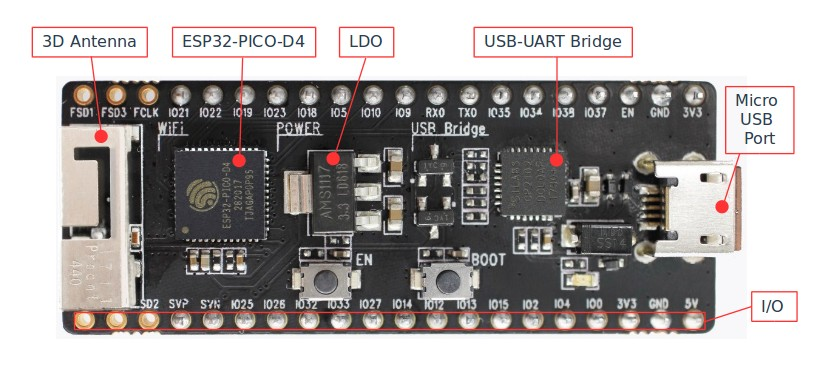
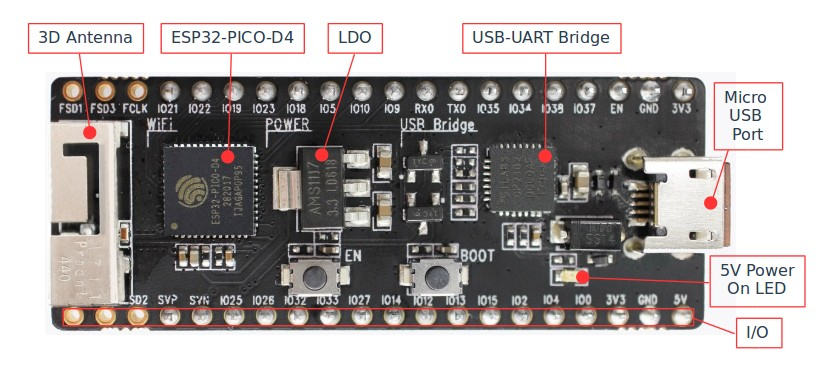
Pin descriptions, overview diagram and board dimensions carried over from ESP32-PICO-KIT_Datasheet_EN.pdf. The datasheet looks redundant and will not be used.

diff --git a/docs/get-started/get-started-pico-kit.rst b/docs/get-started/get-started-pico-kit.rst
@@ -11,15 +11,30 @@ What You Need
 * 1 × USB A / Micro USB B cable
 * 1 × PC loaded with Windows, Linux or Mac OS
 
+If you like to start using this board right now, go directly to section `Start Application Development`_.
+
 
 Overview
 --------
 
-ESP32-PICO-KIT V4 is a mini development board based on the ESP32-PICO-D4 SIP module produced by `Espressif <https://espressif.com>`_. For easy interfacing, all the IO signals and system power on ESP32-PICO-D4 are led out through two 20 x 0.1" pitch header pads on both sides of the development board. To make the ESP32-PICO-KIT V4 fit into mini breadboards, the header pads are populated with two 17 pin headers. Remaining 2 x 3 pads grouped on one side of the board besides the antenna are not populated. If required, the additional 2 x 3 pin headers may be soldered later by the user. The development board integrates a USB-UART Bridge circuit, allowing the developers to connect the board to a PC's USB port for downloads and debugging.
+ESP32-PICO-KIT V4 is a mini development board produced by `Espressif <https://espressif.com>`_. At the core of this board is the ESP32-PICO-D4, a System-in-Package (SIP) module with complete Wi-Fi and Bluetooth functionalities. Comparing to other ESP32 chips, the ESP32-PICO-D4 integrates several peripheral components in one single package, that otherwise would need to be installed separately. This includes a 40 MHz crystal oscillator, 4 MB flash, filter capacitors and RF matching links in. This greatly reduces quantity and costs of additional components, subsequent assembly and testing cost, as well as overall product complexity.
+
+The development board integrates a USB-UART Bridge circuit, allowing the developers to connect the board to a PC's USB port for downloads and debugging. 
+
+For easy interfacing, all the IO signals and system power on ESP32-PICO-D4 are led out through two rows of 20 x 0.1" pitch header pads on both sides of the development board. To make the ESP32-PICO-KIT V4 fit into mini breadboards, the header pads are populated with two rows of 17 pin headers. Remaining 2 x 3 pads grouped on each side of the board besides the antenna are not populated. The remaining 2 x 3 pin headers may be soldered later by the user. 
 
 .. note::
 
-    The 2 x 3 pads not populated with pin headers are internally connected to the flash memory embedded in the ESP32-PICO-D4 SIP module. For more details see module's datasheet in :ref:`get-started-pico-kit-v4-related-documents`.
+    The 2 x 3 pads not populated with pin headers are internally connected to the flash memory embedded in the ESP32-PICO-D4 SIP module. For more details see module's datasheet in `Related Documents`_.
+
+The board dimensions are 52 x 20.3 x 10 mm (2.1" x 0.8" x 0.4"), see section `Board Dimensions`_. An overview functional block diagram is shown below.
+
+.. figure:: ../_static/esp32-pico-kit-v4-functional-block-diagram.png
+    :align: center
+    :alt: ESP32-PICO-KIT V4 functional block diagram
+    :figclass: align-center
+
+    ESP32-PICO-KIT V4 functional block diagram
 
 
 Functional Description
@@ -29,16 +44,20 @@ The following list and figure below describe key components, interfaces and cont
 
 ESP32-PICO-D4
     Standard ESP32-PICO-D4 module soldered to the ESP32-PICO-KIT V4 board. The complete system of the ESP32 chip has been integrated into the SIP module, requiring only external antenna with LC matching network, decoupling capacitors and pull-up resistors for EN signals to function properly.
+LDO
+    5V-to-3.3V Low dropout voltage regulator (LDO).
 USB-UART Bridge
     A single chip USB-UART bridge provides up to 1 Mbps transfers rates.
-I/O
-    All the pins on ESP32-PICO-D4 are broken out to the pin headers on the board. Users can program ESP32 to enable multiple functions such as PWM, ADC, DAC, I2C, I2S, SPI, etc.
 Micro USB Port
     USB interface. It functions as the power supply for the board and the communication interface between PC and ESP32-PICO-KIT V4.
-EN Button
-    Reset button; pressing this button resets the system.
+5V Power On LED
+    This light emitting diode lits when the USB or an external 5V power supply is applied to the board. For details see schematic in `Related Documents`_.
+I/O
+    All the pins on ESP32-PICO-D4 are broken out to the pin headers on the board. Users can program ESP32 to enable multiple functions such as PWM, ADC, DAC, I2C, I2S, SPI, etc. For details please see section `Pin Descriptions`_.
 BOOT Button
     Holding down the Boot button and pressing the EN button initiates the firmware download mode. Then user can download firmware through the serial port.
+EN Button
+    Reset button; pressing this button resets the system.
 
 .. _get-started-pico-kit-v4-board-front:
 
@@ -65,7 +84,7 @@ There following options are available to provide power supply to the ESP32-PICO-
 
 
 Start Application Development
-------------------------------
+-----------------------------
 
 Before powering up the ESP32-PICO-KIT V4, please make sure that the board has been received in good condition with no obvious signs of damage.
 
@@ -77,7 +96,106 @@ To start development of applications, proceed to section :doc:`index`, that will
 * :ref:`get-started-build-monitor` instantly what the application is doing
 
 
-.. _get-started-pico-kit-v4-related-documents:
+Pin Descriptions
+----------------
+
+The two tables below provide the **Name** and **Function** of I/O headers on both sides of the board, see :ref:`get-started-pico-kit-v4-board-front`. The pin numbering and header names are the same as on a schematic in `Related Documents`_.
+
+
+Header J2
+"""""""""
+
+======  =================  ======  ======================================================
+No.     Name               Type    Function
+======  =================  ======  ======================================================
+1       FLASH_SD1 (FSD1)   I/O     | GPIO8, SD_DATA1, SPID, HS1_DATA1 :ref:`(1) <get-started-pico-kit-v4-pin-notes>` , U2CTS
+2       FLASH_SD3 (FSD3)   I/O     | GPIO7, SD_DATA0, SPIQ, HS1_DATA0 :ref:`(1) <get-started-pico-kit-v4-pin-notes>` , U2RTS
+3       FLASH_CLK (FCLK)   I/O     | GPIO11, SD_CMD, SPICS0, HS1_CMD :ref:`(1) <get-started-pico-kit-v4-pin-notes>` , U1RTS
+4       IO21               I/O     | GPIO21, VSPIHD, EMAC_TX_EN
+5       IO22               I/O     | GPIO22, VSPIWP, U0RTS, EMAC_TXD1
+6       IO19               I/O     | GPIO19, VSPIQ, U0CTS, EMAC_TXD0
+7       IO23               I/O     | GPIO23, VSPID, HS1_STROBE
+8       IO18               I/O     | GPIO18, VSPICLK, HS1_DATA7
+9       IO5                I/O     | GPIO5, VSPICS0, HS1_DATA6, EMAC_RX_CLK
+10      IO10               I/O     | GPIO10, SD_DATA3, SPIWP, HS1_DATA3, U1TXD
+11      IO9                I/O     | GPIO9, SD_DATA2, SPIHD, HS1_DATA2, U1RXD
+12      RXD0               I/O     | GPIO3, U0RXD :ref:`(4) <get-started-pico-kit-v4-pin-notes>` , CLK_OUT2
+13      TXD0               I/O     | GPIO1, U0TXD :ref:`(4) <get-started-pico-kit-v4-pin-notes>` , CLK_OUT3, EMAC_RXD2
+14      IO35               I       | ADC1_CH7, RTC_GPIO5
+15      IO34               I       | ADC1_CH6, RTC_GPIO4
+16      IO38               I       | GPIO38, ADC1_CH2, ADC_PRE_AMP :ref:`(2b) <get-started-pico-kit-v4-pin-notes>` , RTC_GPIO2
+17      IO37               I       | GPIO37, ADC_PRE_AMP :ref:`(2a) <get-started-pico-kit-v4-pin-notes>` , ADC1_CH1, RTC_GPIO1
+18      EN                 I       | CHIP_PU
+19      GND                P       | Ground
+20      VDD33 (3V3)        P       | 3.3V power supply
+======  =================  ======  ======================================================
+
+
+Header J3
+"""""""""
+
+======  =================  ======  ======================================================
+No.     Name               Type    Function
+======  =================  ======  ======================================================
+1       FLASH_CS (FCS)     I/O     | GPIO16, HS1_DATA4 :ref:`(1) <get-started-pico-kit-v4-pin-notes>` , U2RXD, EMAC_CLK_OUT
+2       FLASH_SD0 (FSD0)   I/O     | GPIO17, HS1_DATA5 :ref:`(1) <get-started-pico-kit-v4-pin-notes>` , U2TXD, EMAC_CLK_OUT_180
+3       FLASH_SD2 (FSD2)   I/O     | GPIO6, SD_CLK, SPICLK, HS1_CLK :ref:`(1) <get-started-pico-kit-v4-pin-notes>` , U1CTS 
+4       SENSOR_VP (FSVP)   I       | GPIO36, ADC1_CH0, ADC_PRE_AMP :ref:`(2a) <get-started-pico-kit-v4-pin-notes>` , RTC_GPIO0
+5       SENSOR_VN (FSVN)   I       | GPIO39, ADC1_CH3, ADC_PRE_AMP :ref:`(2b) <get-started-pico-kit-v4-pin-notes>` , RTC_GPIO3
+6       IO25               I/O     | GPIO25, DAC_1, ADC2_CH8, RTC_GPIO6, EMAC_RXD0
+7       IO26               I/O     | GPIO26, DAC_2, ADC2_CH9, RTC_GPIO7, EMAC_RXD1
+8       IO32               I/O     | 32K_XP :ref:`(3a) <get-started-pico-kit-v4-pin-notes>` , ADC1_CH4, TOUCH9, RTC_GPIO9
+9       IO33               I/O     | 32K_XN :ref:`(3b) <get-started-pico-kit-v4-pin-notes>` , ADC1_CH5, TOUCH8, RTC_GPIO8
+10      IO27               I/O     | GPIO27, ADC2_CH7, TOUCH7, RTC_GPIO17
+                                   | EMAC_RX_DV
+11      IO14               I/O     | ADC2_CH6, TOUCH6, RTC_GPIO16, MTMS, HSPICLK,
+                                   | HS2_CLK, SD_CLK, EMAC_TXD2
+12      IO12               I/O     | ADC2_CH5, TOUCH5, RTC_GPIO15, MTDI :ref:`(5) <get-started-pico-kit-v4-pin-notes>` , HSPIQ,
+                                   | HS2_DATA2, SD_DATA2, EMAC_TXD3
+13      IO13               I/O     | ADC2_CH4, TOUCH4, RTC_GPIO14, MTCK, HSPID,
+                                   | HS2_DATA3, SD_DATA3, EMAC_RX_ER
+14      IO15               I/O     | ADC2_CH3, TOUCH3, RTC_GPIO13, MTDO, HSPICS0
+                                   | HS2_CMD, SD_CMD, EMAC_RXD3
+15      IO2                I/O     | ADC2_CH2, TOUCH2, RTC_GPIO12, HSPIWP,
+                                   | HS2_DATA0, SD_DATA0
+16      IO4                I/O     | ADC2_CH0, TOUCH0, RTC_GPIO10, HSPIHD,
+                                   | HS2_DATA1, SD_DATA1, EMAC_TX_ER
+17      IO0                I/O     | ADC2_CH1, TOUCH1, RTC_GPIO11, CLK_OUT1
+                                   | EMAC_TX_CLK
+18      VDD33 (3V3)        P       | 3.3V power supply
+19      GND                P       | Ground
+20      EXT_5V (5V)        P       | 5V power supply
+======  =================  ======  ======================================================
+
+
+.. _get-started-pico-kit-v4-pin-notes:
+
+**Notes to** `Pin Descriptions`_ 
+
+    1. This pin is connected to the flash pin of ESP32-PICO-D4.
+    2. When used as ADC_PRE_AMP, connect 270 pF capacitors between: (a) SENSOR_VP and IO37, (b) SENSOR_VN and IO38.
+    3. 32.768 kHz crystal oscillator: (a) input, (b) output.
+    4. This pin is connected to the pin of the USB bridge chip on the board.
+    5. The operating voltage of ESP32-PICO-KIT’s embedded SPI flash is 3.3V. Therefore, the strapping pin MTDI should hold bit ”0” during the module power-on reset.
+
+
+Board Dimensions
+----------------
+
+.. figure:: ../_static/esp32-pico-kit-v4-dimensions-back.jpg
+    :align: center
+    :alt: ESP32-PICO-KIT V4 dimensions - back
+    :figclass: align-center
+
+    ESP32-PICO-KIT V4 dimensions - back
+
+.. figure:: ../_static/esp32-pico-kit-v4-dimensions-side.jpg
+    :align: center
+    :alt: ESP32-PICO-KIT V4 dimensions - side
+    :figclass: align-center
+
+    ESP32-PICO-KIT V4 dimensions - side
+
 
 Related Documents
 -----------------
@@ -86,7 +204,6 @@ Related Documents
 * `ESP32-PICO-D4 Datasheet <http://espressif.com/sites/default/files/documentation/esp32-pico-d4_datasheet_en.pdf>`_ (PDF)
 * :doc:`../hw-reference/index`
 
-.. * `ESP32-PICO-KIT Datasheet <http://espressif.com/sites/default/files/documentation/esp32-pico-kit_datasheet_en.pdf>`_ (PDF)
 
 .. toctree::
     :hidden:
